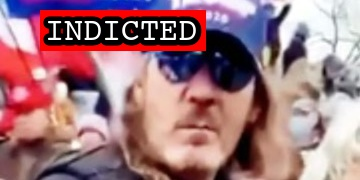
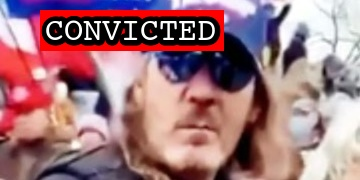
Misc updates

Changed region(s): [[0.0917, 0.0278, 0.6417, 0.3056]]

diff --git a/docs/_suspects/patrick-stedman.md b/docs/_suspects/patrick-stedman.md
@@ -17,7 +17,7 @@ plea_hearing:
 trial_date: 2023-06-05
 trial_type: Jury Trial
 jury_selection: 2023-06-05
-sentencing:
+sentencing: 2023-09-08
 status_conference:
 age: 32
 occupation: Dating + Relationship Strategist
@@ -41,29 +41,28 @@ caseName: USA v. STEDMAN
 judge: Beryl A. Howell
 videos:
 charges:
-  - code: 18 USC § 1512(c)(2),2
-    title: Obstruction of an Official Proceeding (Aiding and Abetting)
-    url: https://www.law.cornell.edu/uscode/text/18/1512
-    felony: true
-  - code: 18 USC § 1752(a)(1)
-    title: Entering a restricted building or grounds
-    url: https://www.law.cornell.edu/uscode/text/18/1752
-    felony: false
-  - code: 18 USC § 1752(a)(2)
-    title: Disorderly and disruptive conduct in a restricted building or grounds
-    url: https://www.law.cornell.edu/uscode/text/18/1752
-    felony: false
-  - code: 40 USC § 5104(e)(2)(D)
-    title: Disorderly Conduct in a Capitol Building
-    url: https://www.law.cornell.edu/uscode/text/40/5104
-    felony: false
-  - code: 40 USC § 5104(e)(2)(G)
-    title: Parading, demonstrating or picketing in a Capitol building
-    url: https://www.law.cornell.edu/uscode/text/40/5104
-    felony: false
+- code: 18 USC § 1512(c)(2),2
+  title: Obstruction of an Official Proceeding (Aiding and Abetting)
+  url: https://www.law.cornell.edu/uscode/text/18/1512
+  felony: true
+- code: 18 USC § 1752(a)(1)
+  title: Entering a restricted building or grounds
+  url: https://www.law.cornell.edu/uscode/text/18/1752
+  felony: false
+- code: 18 USC § 1752(a)(2)
+  title: Disorderly and disruptive conduct in a restricted building or grounds
+  url: https://www.law.cornell.edu/uscode/text/18/1752
+  felony: false
+- code: 40 USC § 5104(e)(2)(D)
+  title: Disorderly Conduct in a Capitol Building
+  url: https://www.law.cornell.edu/uscode/text/40/5104
+  felony: false
+- code: 40 USC § 5104(e)(2)(G)
+  title: Parading, demonstrating or picketing in a Capitol building
+  url: https://www.law.cornell.edu/uscode/text/40/5104
+  felony: false
 sentence:
 ---
-
 - [News Report](https://www.nj.com/news/2021/01/nj-man-charged-with-taking-part-in-attack-at-us-capitol-posted-videos-from-inside-feds-say.html)
 - [Statement of Facts](https://www.justice.gov/usao-dc/case-multi-defendant/file/1379521/download)
 - [Complaint](https://www.justice.gov/usao-dc/case-multi-defendant/file/1379516/download)

diff --git a/docs/_suspects/ralph-celentano.md b/docs/_suspects/ralph-celentano.md
@@ -4,11 +4,11 @@ lastName: Celentano
 hashtag: ChairGuy
 aka:
 residence: New York
-status: Indicted
+status: Convicted
 date: 2022-03-01
 charged: 2022-03-01
 indicted: 2022-05-25
-convicted:
+convicted: 2023-06-12
 acquitted:
 sentenced:
 dismissed:
@@ -32,7 +32,7 @@ raid: ralph-celentano.jpg
 perpwalk:
 quote:
 title: Ralph Celentano charged on March 1st, 2022
-description: Click for latest case details. Suspects innocent until proven guilty.
+description: Convicted on June 12, 2023. Click for latest case details.
 author: seditiontrack
 layout: suspect
 published: true
@@ -41,6 +41,34 @@ caseName: USA v. CELENTANO
 judge: Timothy J. Kelly
 videos:
 charges:
+- code: 18 USC § 111(a)(1)
+  title: Assaulting, resisting, or impeding certain officers or employees
+  url: https://www.law.cornell.edu/uscode/text/18/111
+  felony: true
+- code: 18 USC § 231(a)(3)
+  title: Obstruction of Law Enforcement During Civil Disorder
+  url: https://www.law.cornell.edu/uscode/text/18/231
+  felony: true
+- code: 18 USC § 1752(a)(1)
+  title: Entering a restricted building or grounds
+  url: https://www.law.cornell.edu/uscode/text/18/1752
+  felony: false
+- code: 18 USC § 1752(a)(2)
+  title: Disorderly and disruptive conduct in a restricted building or grounds
+  url: https://www.law.cornell.edu/uscode/text/18/1752
+  felony: false
+- code: 18 USC § 1752(a)(4)
+  title: Engaging in physitical violence in a restricted building
+  url: https://www.law.cornell.edu/uscode/text/18/1752
+  felony: true
+- code: 40 USC § 5104(e)(2)(F)
+  title: Act of physical violence on Capitol grounds
+  url: https://www.law.cornell.edu/uscode/text/40/5104
+  felony: false
+- code: 18 USC § 1512(c)(2),2
+  title: Obstruction of an Official Proceeding (Aiding and Abetting)
+  url: https://www.law.cornell.edu/uscode/text/18/1512
+  felony: true
 sentence:
 ---
 - [News Report](https://www.nbcnews.com/politics/trump-supporter-blind-sided-capitol-cop-jan-6-arrested-fbi-rcna19330)

diff --git a/docs/_suspects/jerod-bargar.md b/docs/_suspects/jerod-bargar.md
@@ -32,7 +32,7 @@ raid:
 perpwalk:
 quote:
 title: Jerod Bargar charged on August 3rd, 2022
-description: Click for latest case details. Suspects innocent until proven guilty.
+description: Convicted on June 8, 2023. Click for latest case details.
 author: seditiontrack
 layout: suspect
 published: true
@@ -41,13 +41,12 @@ caseName: USA v. BARGAR
 judge: Reggie B. Walton
 videos:
 charges:
-  - code: 18 USC § 1752(a)(1), (b)(1)(A)
-    title: Entering a restricted building or grounds with a dangerous or deadly weapon
-    url: https://www.law.cornell.edu/uscode/text/18/1752
-    felony: true
+- code: 18 USC § 1752(a)(1), (b)(1)(A)
+  title: Entering a restricted building or grounds with a dangerous or deadly weapon
+  url: https://www.law.cornell.edu/uscode/text/18/1752
+  felony: true
 sentence:
 ---
-
 - [News Report](https://www.kctv5.com/2022/08/03/missouri-man-arrested-accused-carrying-gun-us-capitol-during-jan-6/)
 - [Complaint](https://www.justice.gov/usao-dc/case-multi-defendant/file/1523981/download)
 - [Statement of Facts](https://www.justice.gov/usao-dc/case-multi-defendant/file/1523986/download)

diff --git a/docs/_suspects/daniel-wilson.md b/docs/_suspects/daniel-wilson.md
@@ -1,7 +1,7 @@
 ---
 name: Daniel Wilson
 lastName: Wilson
-hashtag: 
+hashtag:
 aka:
 residence: Kentucky
 status: Charged
@@ -30,19 +30,20 @@ courtroom:
 courthouse:
 raid:
 perpwalk:
-quote: 'I am ready to lay my life on the line. It is time for good men to do bad things.'
+quote: "I am ready to lay my life on the line. It is time for good men to do bad things."
 title: Daniel Wilson charged on 5/25/2023
 description: Click for latest case details. Suspects innocent until proven guilty.
 author: seditiontrack
 layout: suspect
 published: true
-caseNumber: 
+caseNumber: 23-mj-00103
 caseName: USA v. WILSON
 judge:
 videos:
 charges:
 sentence:
 ---
+
 - [News Report](https://www.courier-journal.com/story/news/2023/05/25/daniel-edwin-wilson-of-louisville-arrested-jan-6-insurrection/70258453007/)
 - [Statement of Facts](https://www.justice.gov/usao-dc/press-release/file/1585261/download)
 - [DOJ Press Release](https://www.justice.gov/usao-dc/pr/kentucky-militia-member-charged-felony-and-misdemeanors-actions-during-jan-6-capitol)

diff --git a/docs/_suspects/david-elizalde.md b/docs/_suspects/david-elizalde.md
@@ -1,7 +1,7 @@
 ---
 name: David Elizalde
 lastName: Elizalde
-hashtag: 
+hashtag:
 aka:
 residence: Virginia
 status: Charged
@@ -36,12 +36,13 @@ description: Click for latest case details. Suspects innocent until proven guilt
 author: seditiontrack
 layout: suspect
 published: true
-caseNumber: 
+caseNumber: 23-mj-00036
 caseName: USA v. ELIZALDE
 judge:
 videos:
 charges:
 sentence:
 ---
+
 - [News Report](https://apnews.com/article/david-elizalde-capitol-riot-uss-harry-truman-e4794872429d13e5ad7a5958510cef64)
 - [Statement of Facts](https://storage.courtlistener.com/recap/gov.uscourts.dcd.252255/gov.uscourts.dcd.252255.1.1_2.pdf)

diff --git a/docs/_suspects/brandon-peery.md b/docs/_suspects/brandon-peery.md
@@ -1,7 +1,7 @@
 ---
 name: Brandon Peery
 lastName: Peery
-hashtag: 
+hashtag:
 aka:
 residence: Florida
 status: Charged
@@ -36,11 +36,12 @@ description: Click for latest case details. Suspects innocent until proven guilt
 author: seditiontrack
 layout: suspect
 published: true
-caseNumber: 
+caseNumber: 23-mj-00110
 caseName: USA v. PEERY
 judge:
 videos:
 charges:
 sentence:
 ---
+
 - [Statement of Facts](https://storage.courtlistener.com/recap/gov.uscourts.dcd.255804/gov.uscourts.dcd.255804.1.1.pdf)

diff --git a/docs/_suspects/corinne-montoni.md b/docs/_suspects/corinne-montoni.md
@@ -43,7 +43,6 @@ videos:
 charges:
 sentence:
 ---
-
 - [News Report](https://www.fox13news.com/news/lakeland-woman-charged-with-being-at-u-s-capitol-attack)
 - [Complaint](https://www.justice.gov/usao-dc/case-multi-defendant/file/1378976/download)
 - [Statement of Facts](https://www.justice.gov/usao-dc/case-multi-defendant/file/1378971/download)

diff --git a/docs/_suspects/kevin-cronin-ii.md b/docs/_suspects/kevin-cronin-ii.md
@@ -46,6 +46,7 @@ charges:
   url: https://www.law.cornell.edu/uscode/text/40/5104
   felony: false
 sentence:
+  - 30 days incarceration
   - $500 restitution
 ---
 - [News Report](https://www.king5.com/article/news/crime/puyallup-capitol-riot-suspects-charges/281-19245a3b-5271-4dc1-8460-a3c7fa150fe6)

diff --git a/docs/_suspects/christopher-kelly.md b/docs/_suspects/christopher-kelly.md
@@ -36,7 +36,7 @@ description: Click for latest case details. Suspects innocent until proven guilt
 author: seditiontrack
 layout: suspect
 published: true
-caseNumber: 1:21:mj-00128
+caseNumber: 21-mj-00128
 caseName: USA v. KELLY
 judge: Zia M. Faruqui
 videos:

diff --git a/docs/_suspects/eric-christie.md b/docs/_suspects/eric-christie.md
@@ -36,7 +36,7 @@ description: Click for latest case details. Suspects innocent until proven guilt
 author: seditiontrack
 layout: suspect
 published: true
-caseNumber:
+caseNumber: 22-mj-00274
 caseName: USA v. CHRISTIE
 judge:
 videos:

diff --git a/docs/_suspects/jay-johnston.md b/docs/_suspects/jay-johnston.md
@@ -36,7 +36,7 @@ description: Click for latest case details. Suspects innocent until proven guilt
 author: seditiontrack
 layout: suspect
 published: true
-caseNumber:
+caseNumber: 23-mj-00115
 caseName: USA v. JOHNSTON
 judge:
 videos:

diff --git a/docs/_suspects/heather-kepley.md b/docs/_suspects/heather-kepley.md
@@ -36,7 +36,7 @@ description: Click for latest case details. Suspects innocent until proven guilt
 author: seditiontrack
 layout: suspect
 published: true
-caseNumber:
+caseNumber: 23-mj-00071
 caseName: USA v. KEPLEY
 judge:
 videos:
